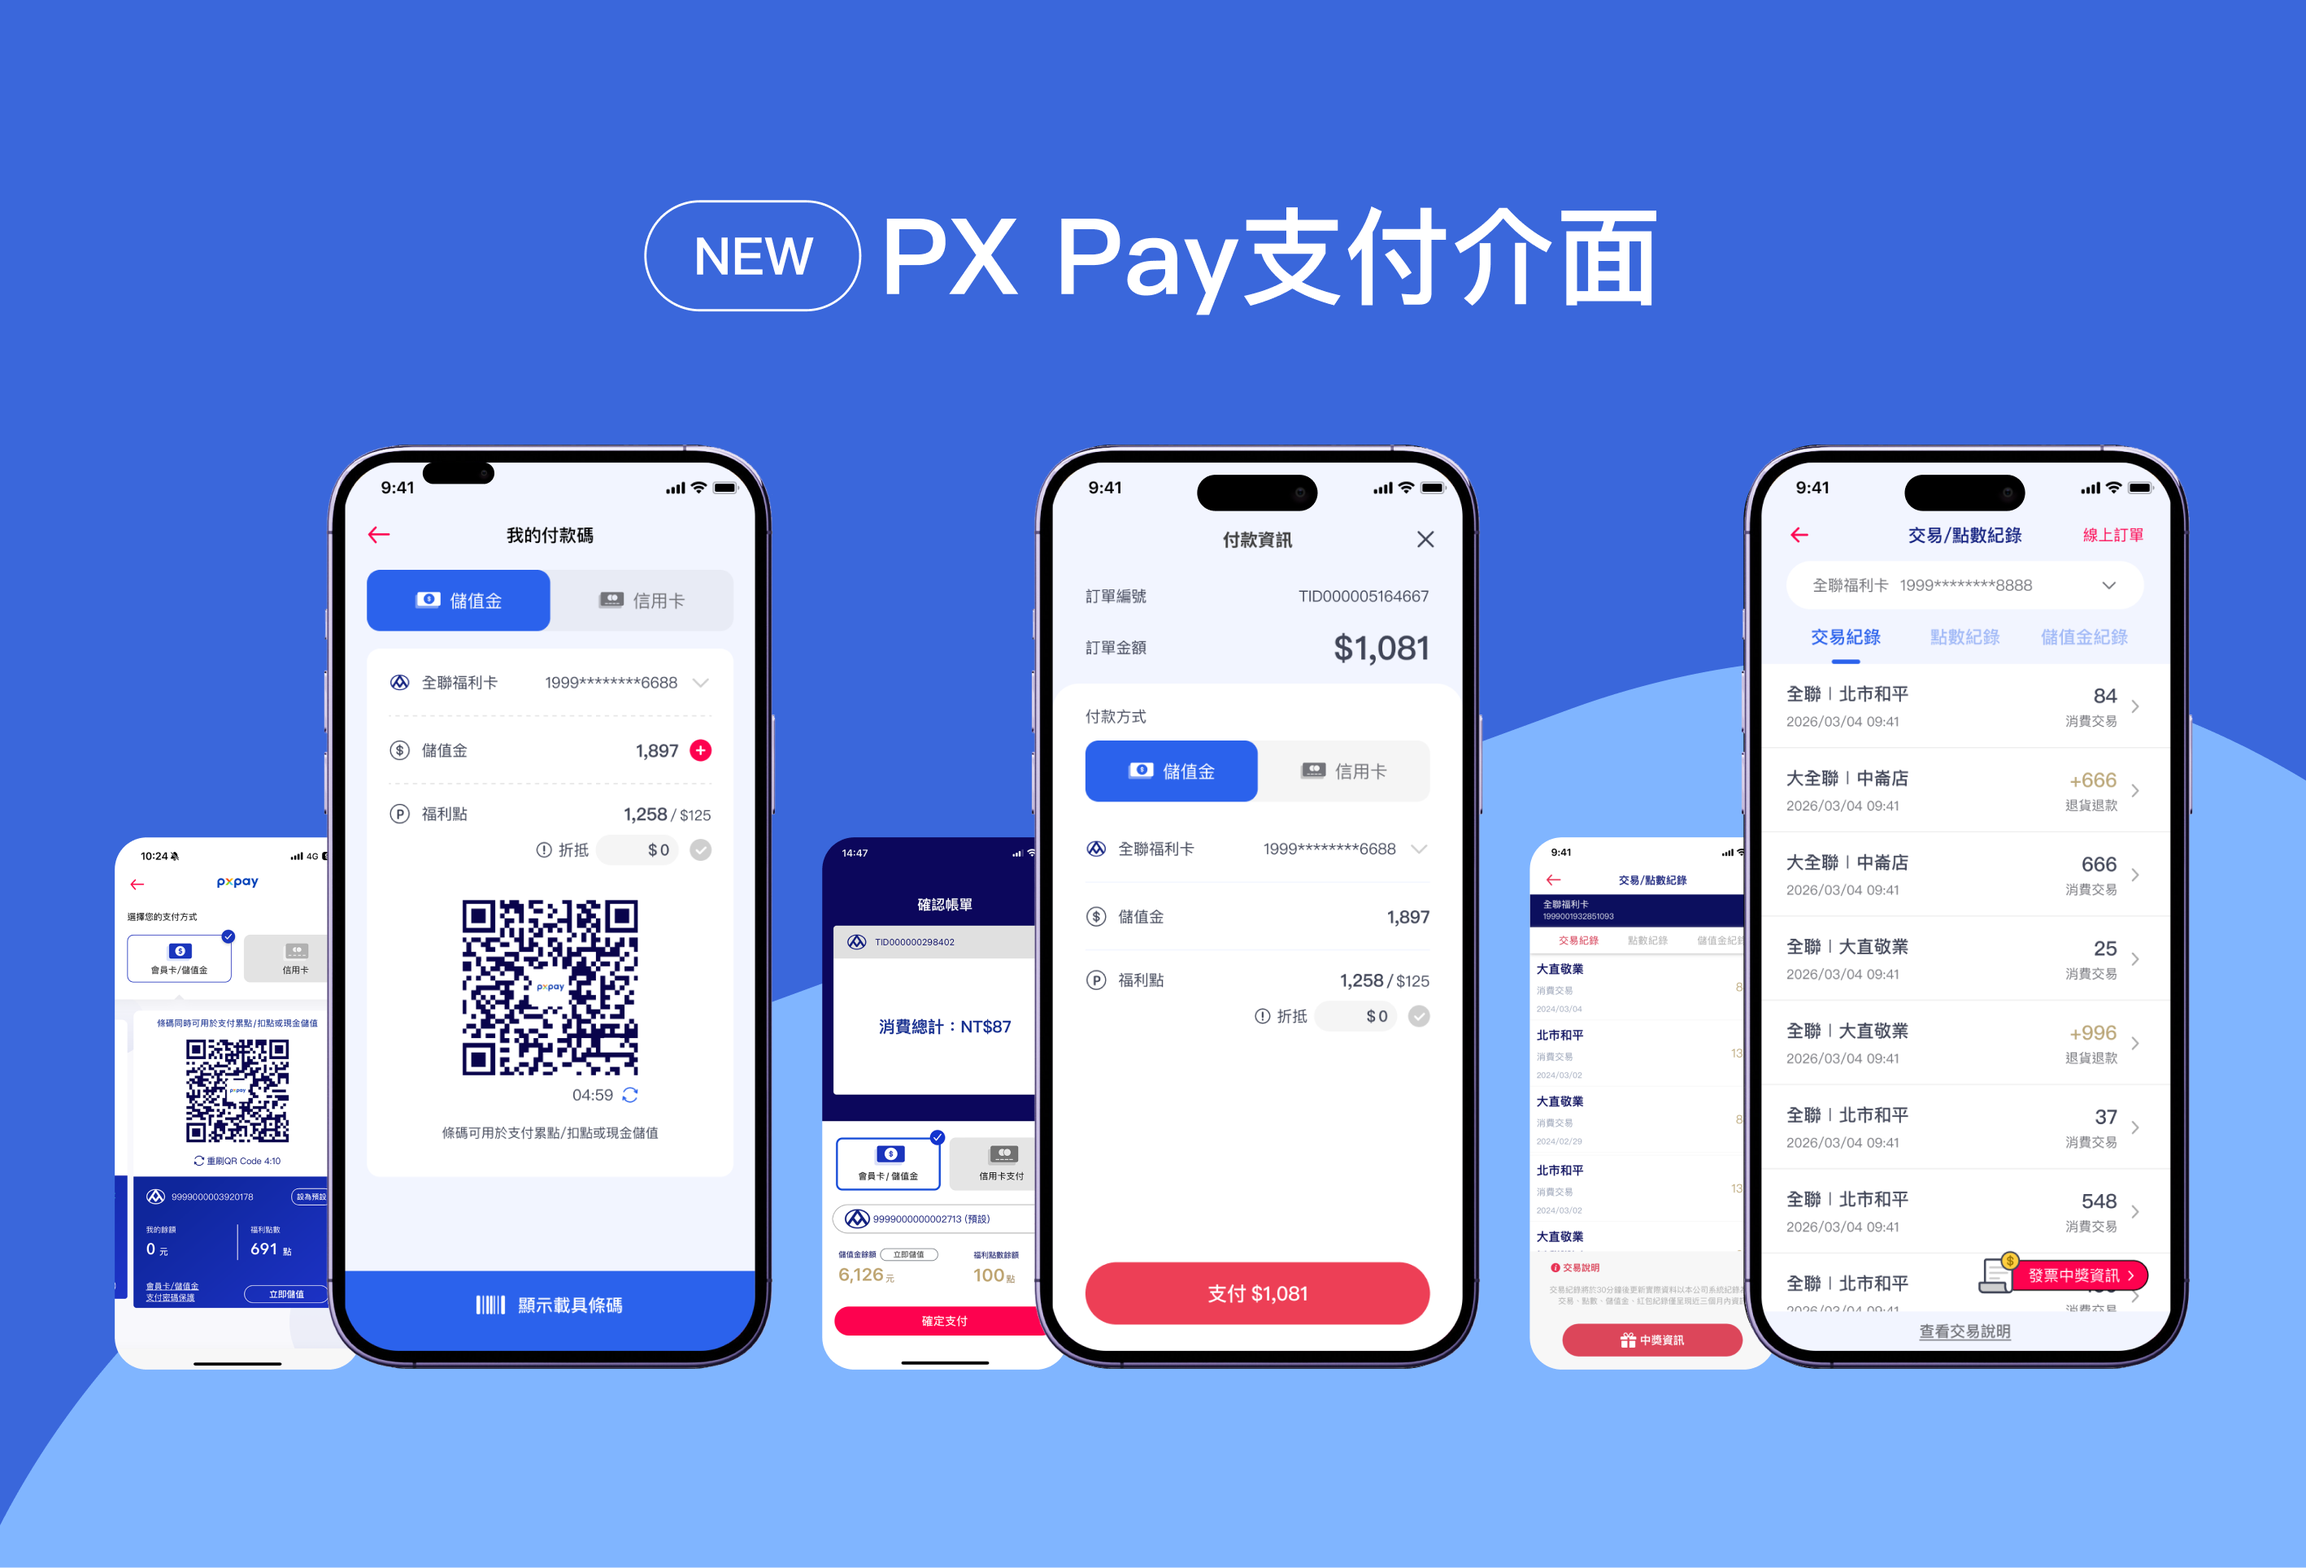
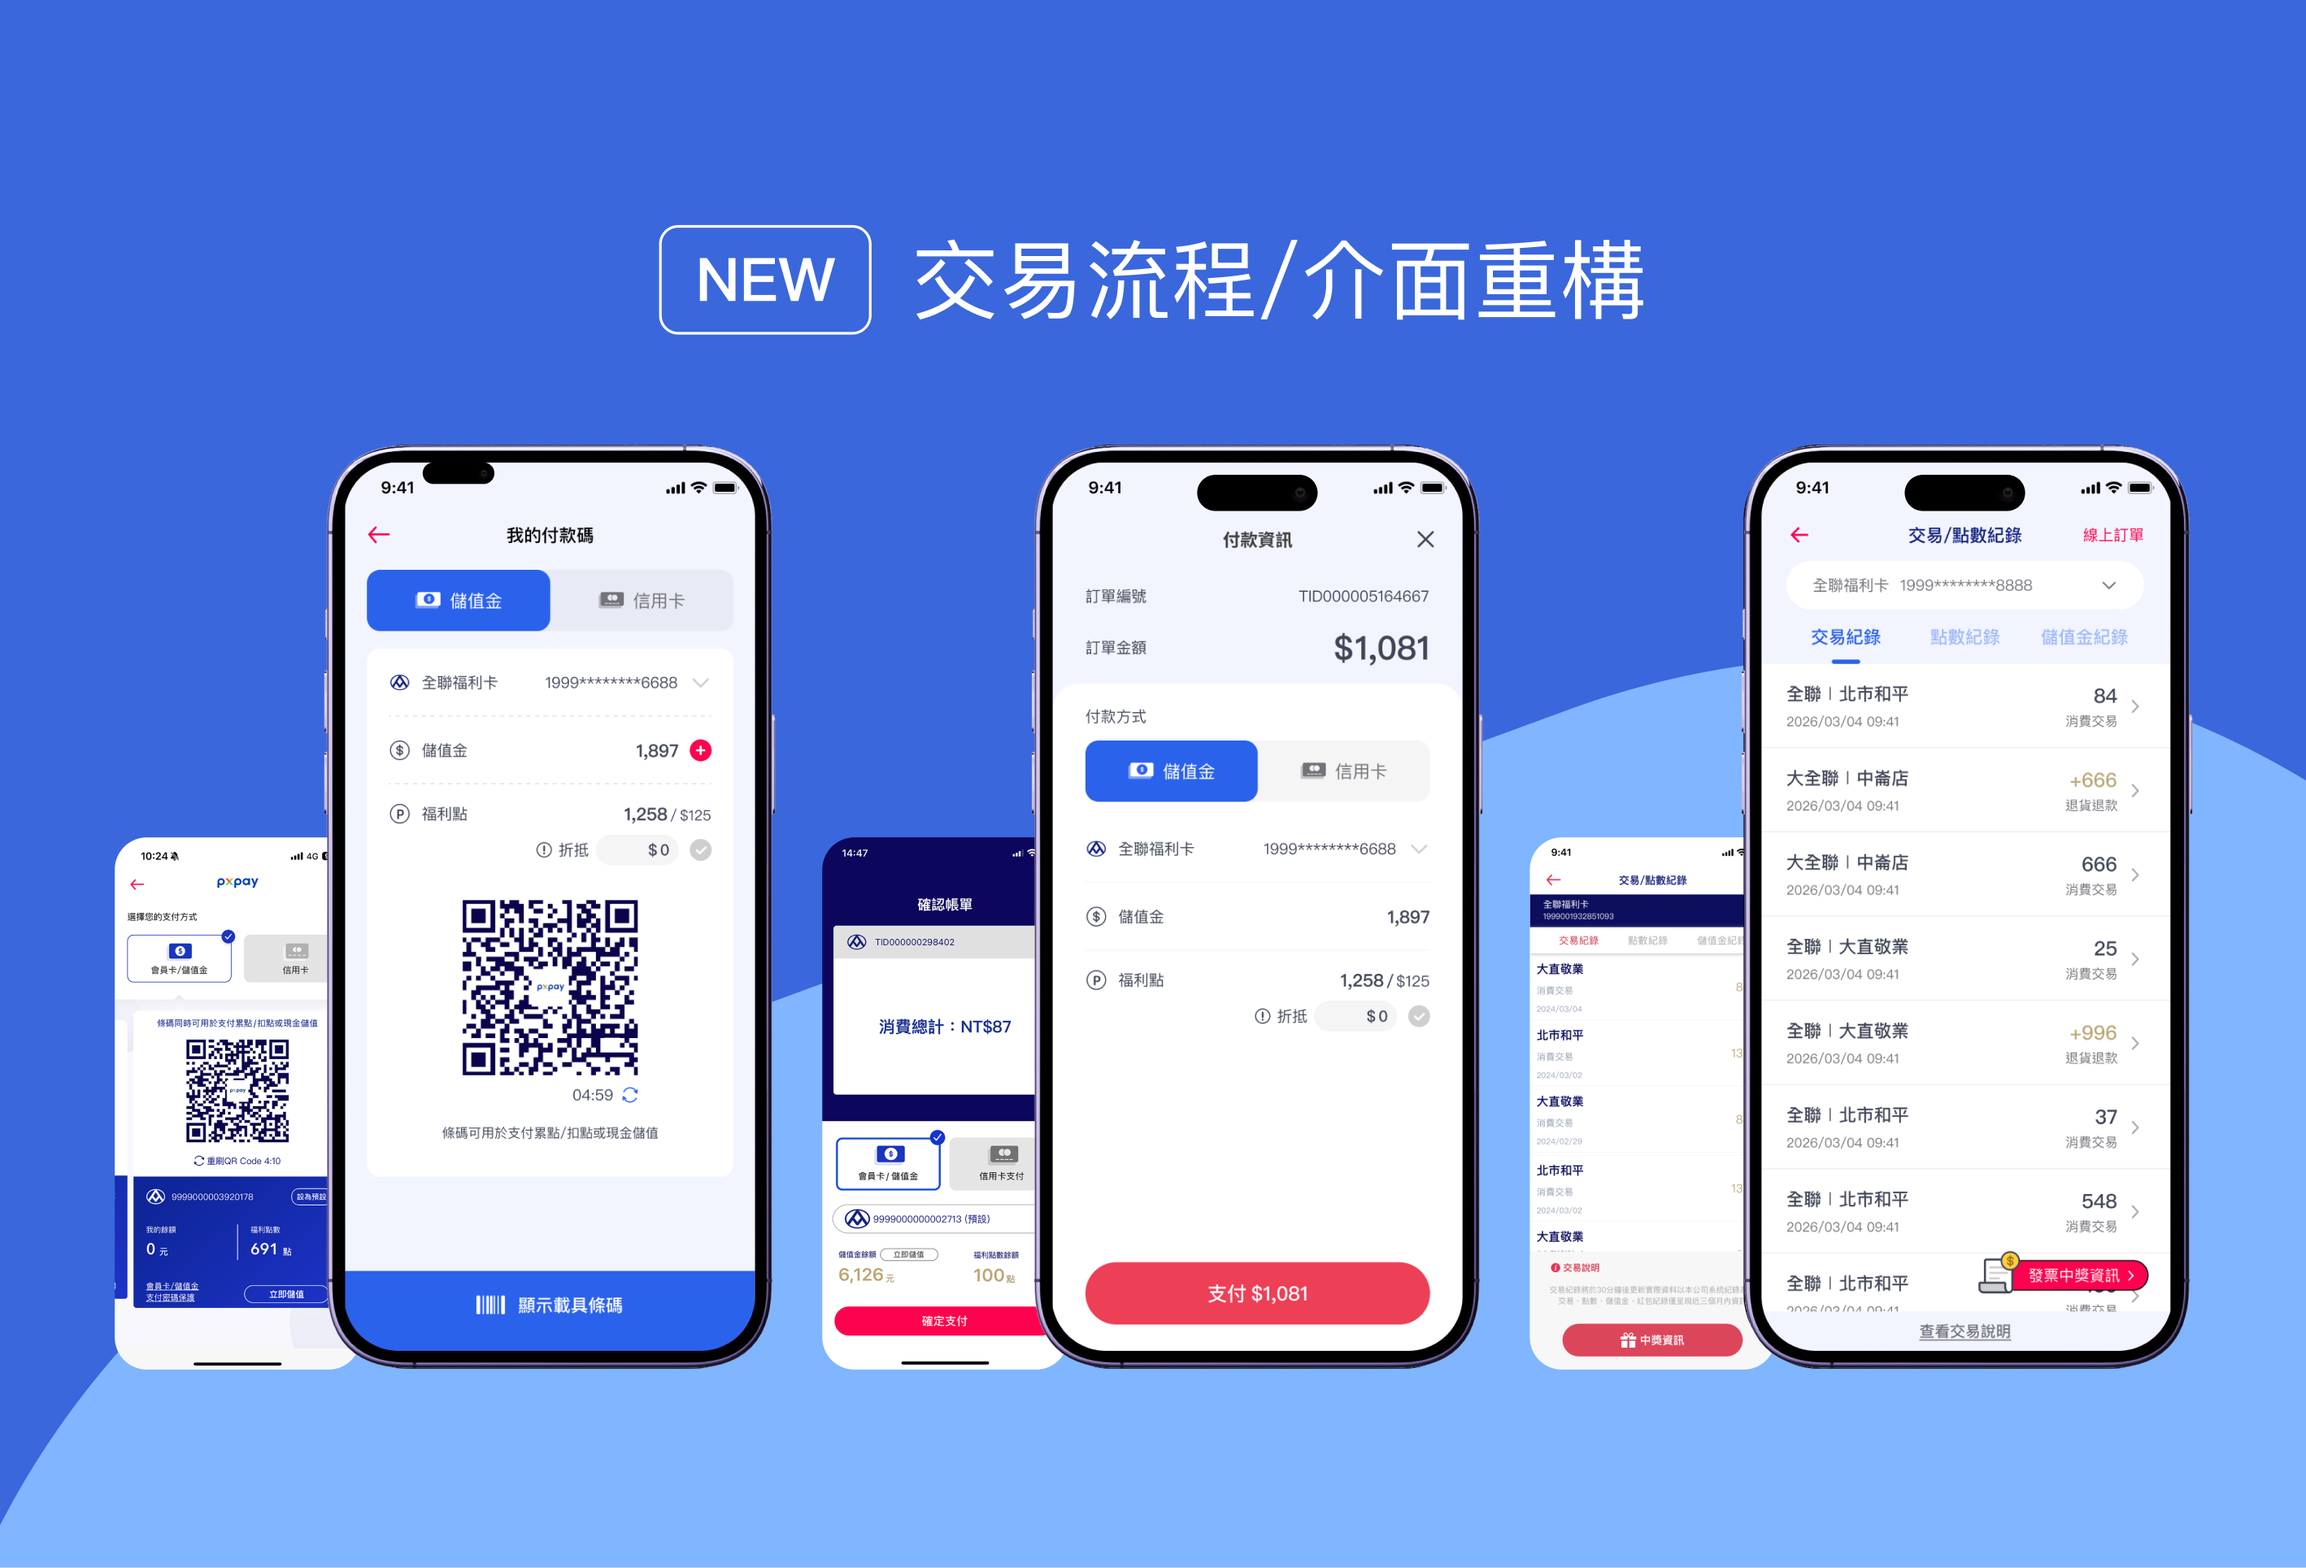
你的提交訊息

Changed region(s): [[0.2793, 0.1244, 0.7137, 0.2177]]

diff --git a/js/main.js b/js/main.js
@@ -16,7 +16,7 @@ $(document).ready(function () {
         $('.inner').removeClass('fade-leave-to').addClass('fade-enter-to');
     });
 
-    $('.back').click(function () { 
+    $('.back,.filters_btn li').click(function () { 
         $('.inner').removeClass('fade-enter-to').addClass('fade-leave-to');
     });
 
@@ -60,7 +60,7 @@ var inner_txt =[
     {
         tag:2,
         mark:'UI/UX',
-        h2:'好好吃改版 | 介面改版整合AI功能',
+        h2:'好好吃 | 介面改版整合AI功能',
         date:'2025.5',
         tit:'首頁模組化、串流短影音、加入AI服務 | 介面規劃、流程設計',
         count:2,
@@ -72,13 +72,13 @@ var inner_txt =[
     {
         tag:2,
         mark:'UI/UX',
-        h2:'小時達 | 天降紅包雨',
+        h2:'PX Pay | 交易/紀錄/支付介面流程重構',
         date:'2025.1',
-        tit:'檔期宣傳活動 | 介面規劃',
+        tit:'線上線下交易界面、支付流程重構 | 介面規劃、流程設計',
         count:2,
         image:[
-            "./img/project_038_1.png",
-            "./img/project_038_2.png",
+            "./img/project_035_1.png",
+            "./img/project_035_2.png",
         ],
     },
     {
@@ -93,18 +93,18 @@ var inner_txt =[
             "./img/project_036_2.png",
         ],
     },
-    {
-        tag:2,
-        mark:'UI/UX',
-        h2:'PX Pay | 交易/紀錄/支付介面流程重構',
-        date:'2024.8',
-        tit:'線上線下交易界面、支付流程重構 | 介面規劃、流程設計',
-        count:2,
-        image:[
-            "./img/project_035_1.png",
-            "./img/project_035_2.png",
-        ],
-    },
+    // {
+    //     tag:2,
+    //     mark:'UI/UX',
+    //     h2:'小時達 | 天降紅包雨',
+    //     date:'2024.5',
+    //     tit:'檔期宣傳活動 | 介面規劃',
+    //     count:2,
+    //     image:[
+    //         "./img/project_038_1.png",
+    //         "./img/project_038_2.png",
+    //     ],
+    // },
     {
         tag:2,
         mark:'UI/UX',
@@ -132,7 +132,7 @@ var inner_txt =[
     {
         tag:2,
         mark:'UI/UX',
-        h2:'吃什麼/用什麼 | 網站設計',
+        h2:'吃什麼/用什麼 | 食譜生活網站',
         date:'2023.1',
         tit:'食譜/生活APP，串流影音以及購物流程 | 介面規劃、流程設計',
         count:2,
@@ -144,13 +144,26 @@ var inner_txt =[
     {
         tag:2,
         mark:'UI/UX',
-        h2:'吃什麼/用什麼 | APP設計',
+        h2:'吃什麼/用什麼 | 食譜生活APP',
         date:'2023.1',
         tit:'食譜/生活APP，串流影音以及購物流程 | 介面規劃、流程設計',
         count:2,
         image:[
             "./img/project_031_1.png",
             "./img/project_031_2.png",
+        ],
+    },
+    {
+        tag:1,
+        mark:'visual design',
+        h2:'屏東聽旅行 | LOGO.視覺.展場規劃',
+        date:'2022.9',
+        tit:'屏東縣政府Ｘ觀光局 | 主視覺、LOGO、展場製作物、手冊',
+        count:3,
+        image:[
+            "./img/project_040_1.png",
+            "./img/project_040_2.png",
+            "./img/project_040_3.png",
         ],
     },
     {
@@ -212,9 +225,10 @@ var inner_txt =[
         h2:'個人網站 | TOAST bakery網頁設計',
         date:'2020.12',
         tit:'TOAST bakery | LOGO、網站視覺、全頁面 | <a href="https://shuanshuanchiang.github.io/Toast/" target="_blank" style="color: cornflowerblue;"> 前往網站</a>',
-        count:1,
+        count:2,
         image:[
             "./img/project_020_1.jpg",
+            "./img/project_020_2.jpg",
         ],
     },
     {

diff --git a/index.html b/index.html
@@ -68,19 +68,19 @@
                 <div class="item__inner">
                     <img src="./img/project_032.png" alt="">
                     <mark>UI/UX</mark>
-                    <h1>好好吃改版 | 介面改版整合AI功能 </h1>
+                    <h1>好好吃 | 介面改版整合AI功能 </h1>
                     <time>2025.5</time>
                 </div>    
             </div>
 
             <div class="item UIUX" data-category="UIUX">
                 <div class="item__inner">
-                    <img src="./img/project_038.png" alt="">
+                    <img src="./img/project_035.png" alt="">
                     <mark>UI/UX</mark>
-                    <h1>小時達 | 天降紅包雨 </h1>
+                    <h1>PX Pay | 交易/紀錄/支付介面流程重構 </h1>
                     <time>2025.1</time>
                 </div>    
-            </div>
+            </div>        
 
             <div class="item UIUX" data-category="UIUX">
                 <div class="item__inner">
@@ -91,14 +91,14 @@
                 </div>    
             </div>
 
-            <div class="item UIUX" data-category="UIUX">
+            <!-- <div class="item UIUX" data-category="UIUX">
                 <div class="item__inner">
-                    <img src="./img/project_035.png" alt="">
+                    <img src="./img/project_038.png" alt="">
                     <mark>UI/UX</mark>
-                    <h1>PX Pay | 交易/紀錄/支付介面流程重構 </h1>
-                    <time>2024.8</time>
+                    <h1>小時達 | 天降紅包雨 </h1>
+                    <time>2024.5</time>
                 </div>    
-            </div>
+            </div> -->
 
             <div class="item UIUX" data-category="UIUX">
                 <div class="item__inner">
@@ -122,7 +122,7 @@
                 <div class="item__inner">
                     <img src="./img/project_033.png" alt="">
                     <mark>UI/UX</mark>
-                    <h1>吃什麼/用什麼 | 食譜/生活網站設計 </h1>
+                    <h1>吃什麼/用什麼 | 食譜生活網站 </h1>
                     <time>2023.1</time>
                 </div>    
             </div>
@@ -131,11 +131,18 @@
                 <div class="item__inner">
                     <img src="./img/project_031.png" alt="">
                     <mark>UI/UX</mark>
-                    <h1>吃什麼/用什麼 | 食譜/生活APP設計 </h1>
+                    <h1>吃什麼/用什麼 | 食譜生活APP </h1>
                     <time>2023.1</time>
                 </div>    
             </div>
-
+            <div class="item package" data-category="package">
+                <div class="item__inner">
+                    <img src="./img/project_040.png" alt="">
+                    <mark>visual design</mark>
+                    <h1>屏東聽旅行 | LOGO.視覺.展場規劃 </h1>
+                    <time>2022.9</time>
+                </div>    
+            </div>
             <div class="item package" data-category="package">
                 <div class="item__inner">
                     <img src="./img/project_029.jpg" alt="">

diff --git a/css/style_copy.css b/css/style_copy.css
@@ -209,11 +209,7 @@ time{
     top:0;
     /* opacity: 0; */
     transform: translateX(100%);
-    transition: opacity 0.2s ease,transform 0.5s ease;
-    /* 以下覆蓋section設定，內頁滿板顯示 */
-    /* margin-left: 0%;
-    width: 100%;
-    z-index: 3; */
+    transition: opacity 0.6s ease,transform 0.6s ease;
 }
 
 .fade-enter{
@@ -278,13 +274,14 @@ h2{
 }
 
 .back{
-    padding: 18px 14px;
-    width: 54px;
+    padding: 16px 13px;
+    width: 50px;
     background-color: #eeebeb;
     color: #666;
     position: sticky;
     left: 90%;
-    bottom: 10%;
+    bottom: 40px;
+    /* right: 40px; */
     border-radius: 50%;
     cursor: pointer;
     transition: .3s;
